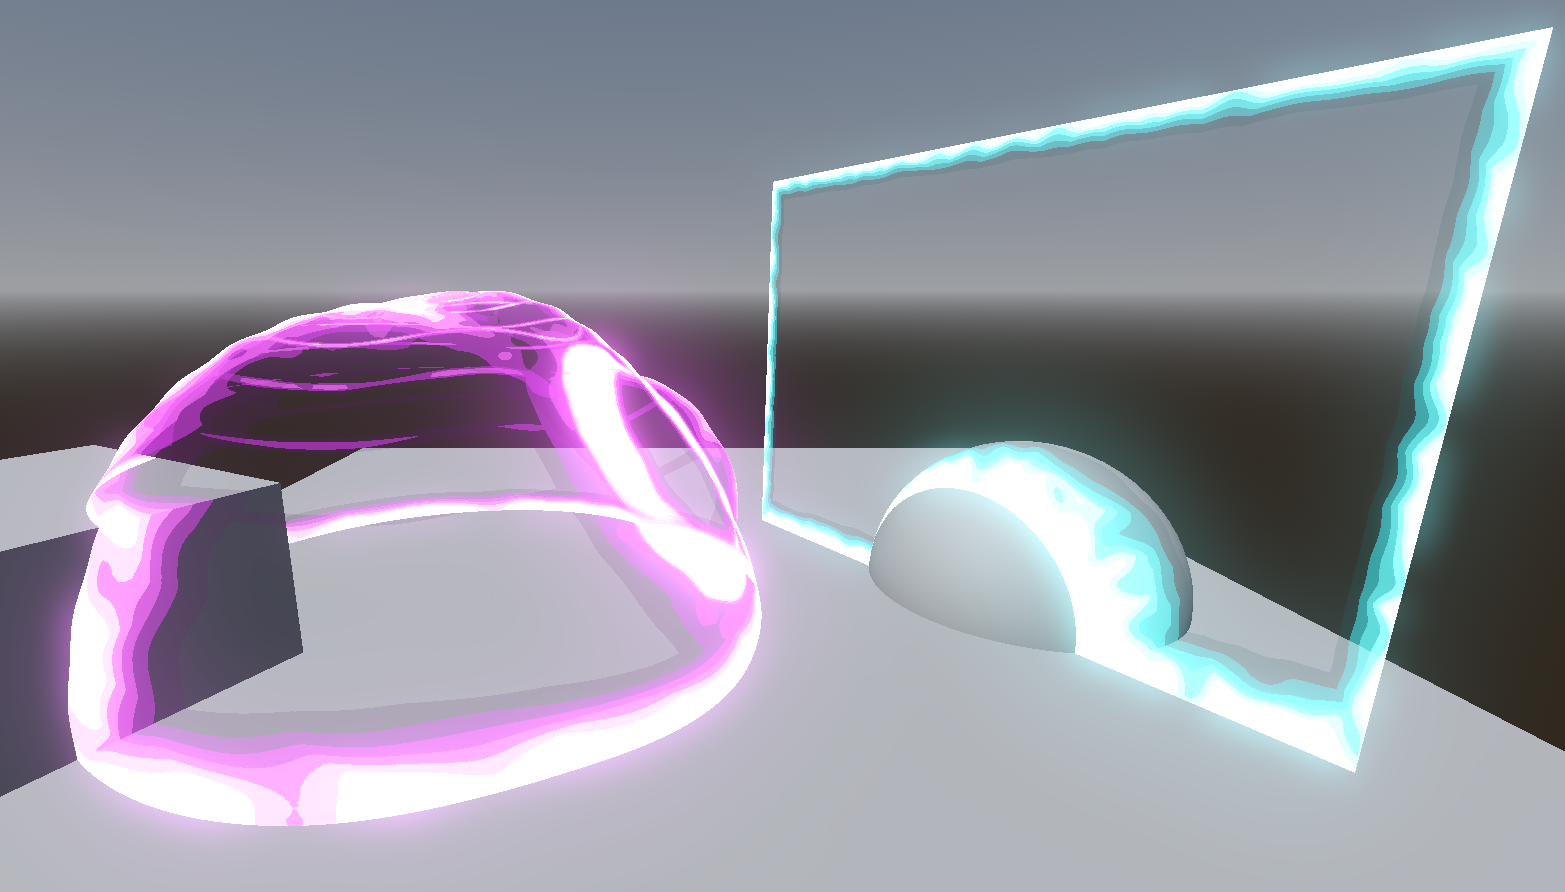
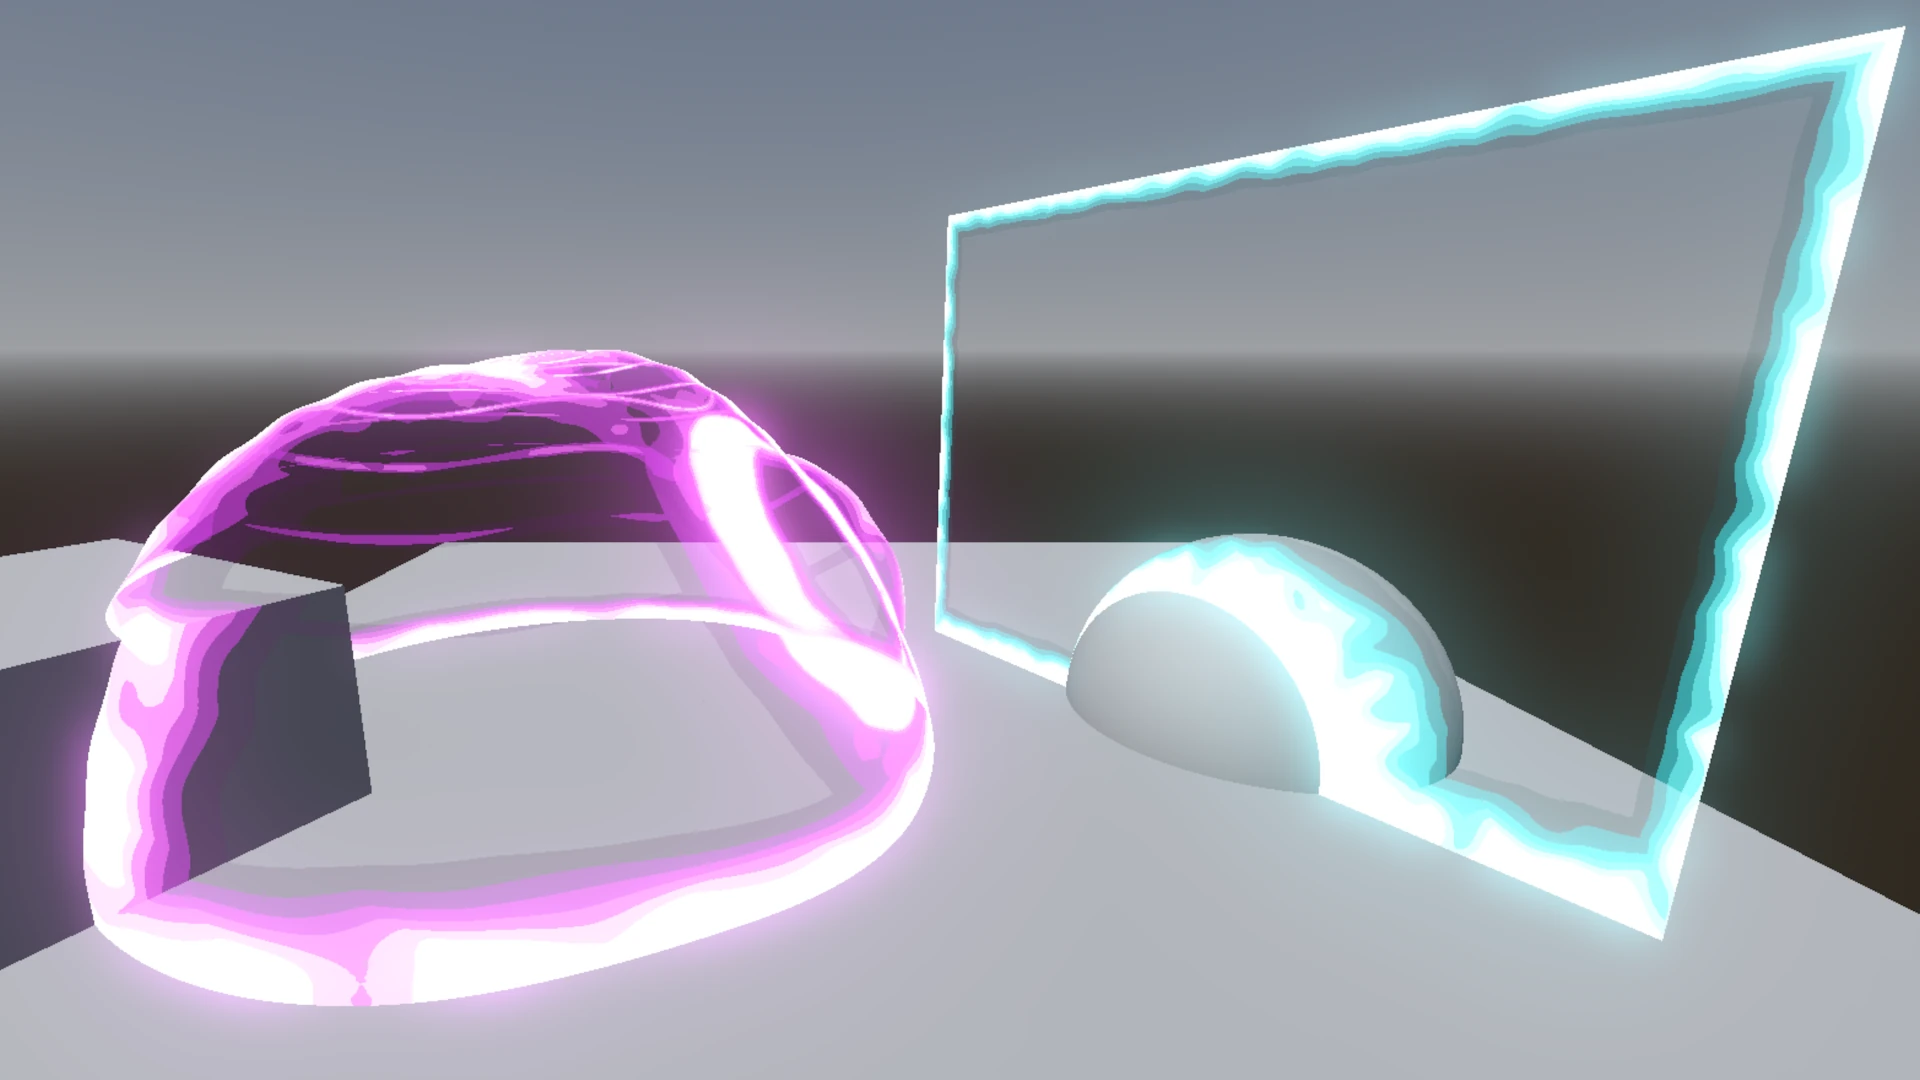
feat: add relative positioning toggle for static and impact wave origins (v1.1.0)
- Add toggle for treating static and impact wave origins as absolute/relative positions
- Update version to 1.1.0 following semver for new feature addition
- Add CONTRIBUTING.md with development guidelines and contributor licensing terms
- Update README.md with 1.1.0 changelog entry
- Update shader files to support new positioning functionality

diff --git a/CONTRIBUTING.md b/CONTRIBUTING.md
@@ -1,0 +1,73 @@
+# Contributing to Energy Shield
+
+Thank you for your interest in contributing to the Energy Shield project! We welcome contributions from the community.
+
+## Getting Started
+
+1. Fork the repository
+2. Create a feature branch from `main`
+3. Make your changes
+4. Test your changes thoroughly
+5. Submit a pull request
+
+## Development Guidelines
+
+### Code Formatting
+
+This project uses pre-commit hooks to ensure consistent code formatting. Before making your first commit:
+
+1. Install pre-commit if you haven't already:
+   ```bash
+   pip install pre-commit
+   ```
+
+2. Install the pre-commit hooks:
+   ```bash
+   pre-commit install
+   ```
+
+3. The hooks will automatically run on each commit to format your code
+
+### Shader Development
+
+- Follow Godot's shader conventions
+- Add comments for complex shader logic
+- Test shaders on both plane and sphere meshes
+- Ensure compatibility with different Godot versions
+
+### Documentation
+
+- Update the README.md if adding new features
+- Document new shader parameters thoroughly
+- Include example usage where applicable
+
+### Testing
+
+- Test your changes in both the editor and exported builds
+- Verify web build compatibility for shader changes
+- Test on different mesh types when applicable
+
+## Submitting Issues
+
+When reporting bugs or requesting features:
+
+- Use a clear, descriptive title
+- Provide steps to reproduce (for bugs)
+- Include Godot version and platform information
+- Attach screenshots or videos when helpful
+
+## License and Copyright
+
+By contributing to this project, you agree that:
+
+- Your contributions will be licensed under the same MIT License that covers the project
+- You have the right to submit your contributions (you own the copyright or have permission)
+- Your contributions are your own original work or properly attributed third-party work
+
+All contributions become part of the project and are subject to the project's MIT License terms.
+
+## Questions?
+
+Feel free to open an issue for questions or join the discussion in existing issues.
+
+Thank you for contributing!

diff --git a/README.md b/README.md
@@ -2,13 +2,14 @@
 This addon for Godot provides an energy shield that can be easily integrated into your scenes. You can use either the `shield_plane.tscn` or `shield_sphere.tscn` directly, or apply the shader to other materials. Note that some adjustments may be needed to ensure proper functionality on meshes other than planes and spheres.
 
 ## Changes
+- 1.1.0: Origin for static waves and impacts can now be set to relative, so the movement of the object won't influence the impact/static waves
 - 1.0.1: Web build compatibility
 
 ## Roadmap
 - [x] Release 1.0
 - [x] create Youtube explaining the Shader https://youtu.be/0YiZSrtxtcg
 - [ ] Dynamic number of Impacts
-- [ ] Asset for Unity
+~- [ ] Asset for Unity~
 - [ ] Support more types of meshes (e.g. Cube)
 - [ ] Add refraction effect
 - [ ] Add chromatic aberration effect
